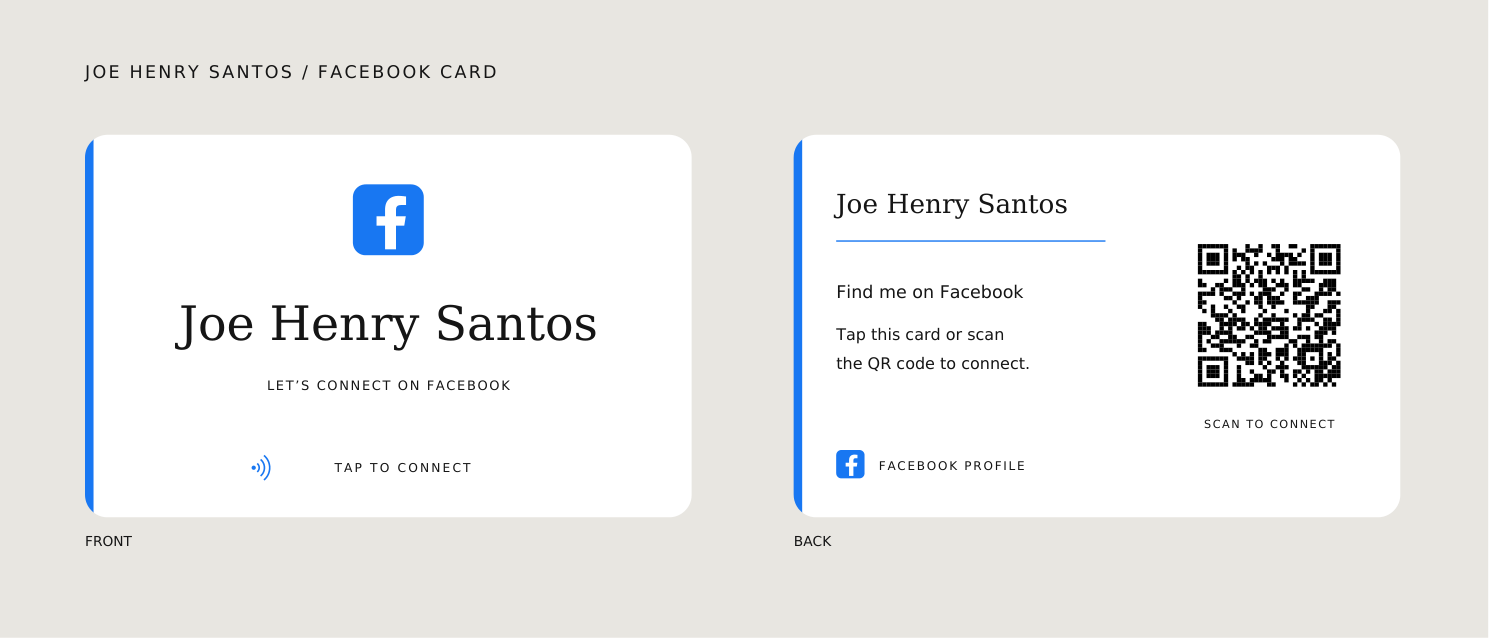
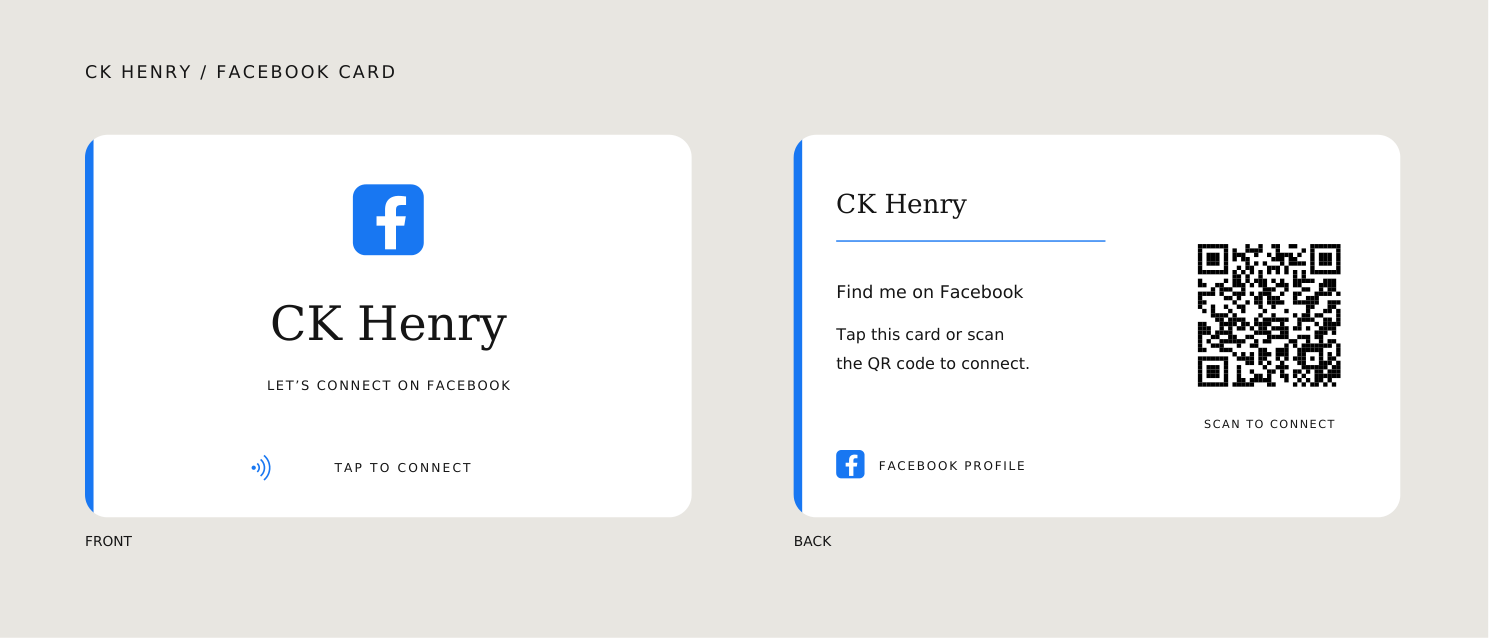
Correct Facebook-only card display name to CK Henry

Changed region(s): [[0.1236, 0.4765, 0.4016, 0.5361], [0.5561, 0.2978, 0.7105, 0.3574], [0.0618, 0.0893, 0.3398, 0.1191]]

diff --git a/print/joe-facebook/index.html b/print/joe-facebook/index.html
@@ -1,1 +1,1 @@
-<!doctype html><html lang="en"><head><meta charset="utf-8"><meta name="viewport" content="width=device-width,initial-scale=1"><meta name="robots" content="noindex"><title>Joe Henry Santos · Facebook NFC card</title><style>*{box-sizing:border-box}body{margin:0;background:#e9e7e1;color:#111;font-family:Arial,sans-serif;padding:36px 20px 60px}main{max-width:1080px;margin:auto}h1{font-size:30px;font-weight:500;margin:0 0 12px}p{line-height:1.6}img{display:block;width:100%;margin:25px 0}a{display:inline-block;background:#111;color:white;text-decoration:none;padding:14px 19px;margin:4px 10px 4px 0;border-radius:4px;font-size:14px}.secondary{background:white;color:#111;border:1px solid #111}.notes{background:white;border-radius:8px;padding:22px;margin-top:25px}h2{font-size:18px;margin-top:0}small{display:block;line-height:1.6;color:#555}:focus-visible{outline:3px solid #e1af34;outline-offset:4px}@media(max-width:600px){body{padding:25px 15px}h1{font-size:25px}}</style></head><body><main><h1>Joe Henry Santos / Facebook NFC card</h1><p>A white card with black lettering, a Facebook-blue accent, and a QR code that opens the supplied Facebook profile directly.</p><img src="joe-facebook-preview.png" alt="Joe Henry Santos Facebook NFC card, front with name and Facebook icon, back with direct-profile QR code."><a href="joe-facebook-trim.pdf">Open card-size PDF</a><a class="secondary" href="joe-facebook-bleed.pdf">Open PDF with bleed</a><section class="notes"><h2>For your printer</h2><p>CR80 finished size: <strong>85.6 × 53.98 mm</strong>. PDF page 1 is the front; page 2 is the back. Print at <strong>100% / Actual size</strong>, not Fit to page.</p><p>Use the card-size PDF for a PVC printer that needs exact dimensions. The bleed PDF has 3 mm extra on each edge (91.6 × 59.98 mm overall), with the trim area defined. Check which format your printer requires.</p><small>The card background is white and all lettering is black. The icon and narrow edge accent use Facebook blue. Rounded corners are shown in the preview, while print artwork extends to the card edges. PDFs use RGB artwork; have your printer apply its normal color profile and run a sample before the final print. Program the NFC chip separately with https://www.facebook.com/profile.php?id=61590377440907 — the same destination as the QR code.</small></section></main></body></html>
+<!doctype html><html lang="en"><head><meta charset="utf-8"><meta name="viewport" content="width=device-width,initial-scale=1"><meta name="robots" content="noindex"><title>CK Henry · Facebook NFC card</title><style>*{box-sizing:border-box}body{margin:0;background:#e9e7e1;color:#111;font-family:Arial,sans-serif;padding:36px 20px 60px}main{max-width:1080px;margin:auto}h1{font-size:30px;font-weight:500;margin:0 0 12px}p{line-height:1.6}img{display:block;width:100%;margin:25px 0}a{display:inline-block;background:#111;color:white;text-decoration:none;padding:14px 19px;margin:4px 10px 4px 0;border-radius:4px;font-size:14px}.secondary{background:white;color:#111;border:1px solid #111}.notes{background:white;border-radius:8px;padding:22px;margin-top:25px}h2{font-size:18px;margin-top:0}small{display:block;line-height:1.6;color:#555}:focus-visible{outline:3px solid #e1af34;outline-offset:4px}@media(max-width:600px){body{padding:25px 15px}h1{font-size:25px}}</style></head><body><main><h1>CK Henry / Facebook NFC card</h1><p>A white card with black lettering, a Facebook-blue accent, and a QR code that opens the supplied Facebook profile directly.</p><img src="joe-facebook-preview.png" alt="CK Henry Facebook NFC card, front with name and Facebook icon, back with direct-profile QR code."><a href="joe-facebook-trim.pdf">Open card-size PDF</a><a class="secondary" href="joe-facebook-bleed.pdf">Open PDF with bleed</a><section class="notes"><h2>For your printer</h2><p>CR80 finished size: <strong>85.6 × 53.98 mm</strong>. PDF page 1 is the front; page 2 is the back. Print at <strong>100% / Actual size</strong>, not Fit to page.</p><p>Use the card-size PDF for a PVC printer that needs exact dimensions. The bleed PDF has 3 mm extra on each edge (91.6 × 59.98 mm overall), with the trim area defined. Check which format your printer requires.</p><small>The card background is white and all lettering is black. The icon and narrow edge accent use Facebook blue. Rounded corners are shown in the preview, while print artwork extends to the card edges. PDFs use RGB artwork; have your printer apply its normal color profile and run a sample before the final print. Program the NFC chip separately with https://www.facebook.com/profile.php?id=61590377440907 — the same destination as the QR code.</small></section></main></body></html>
